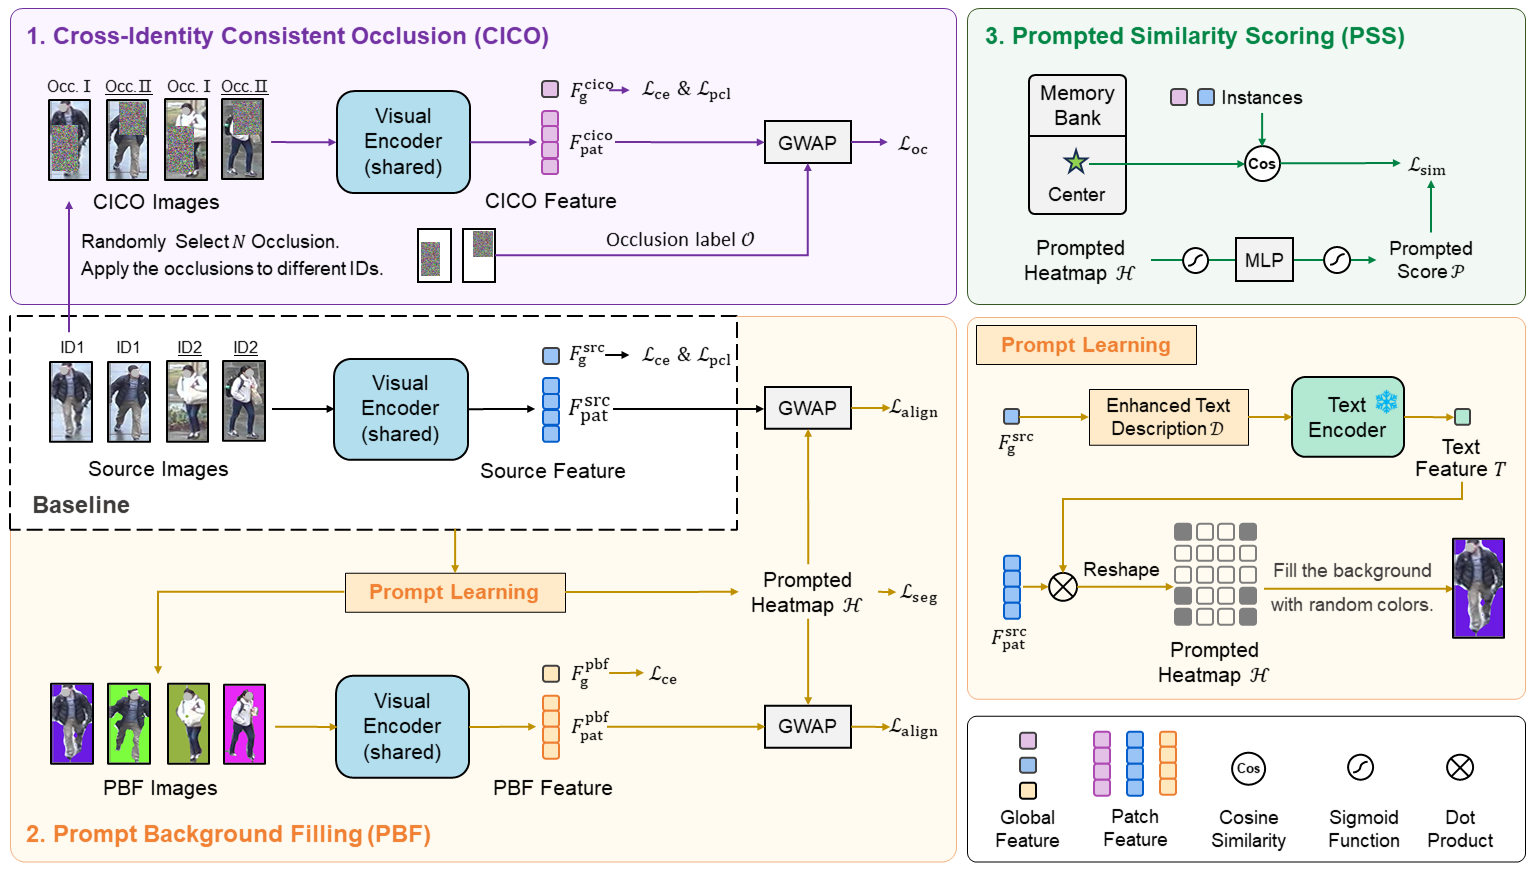
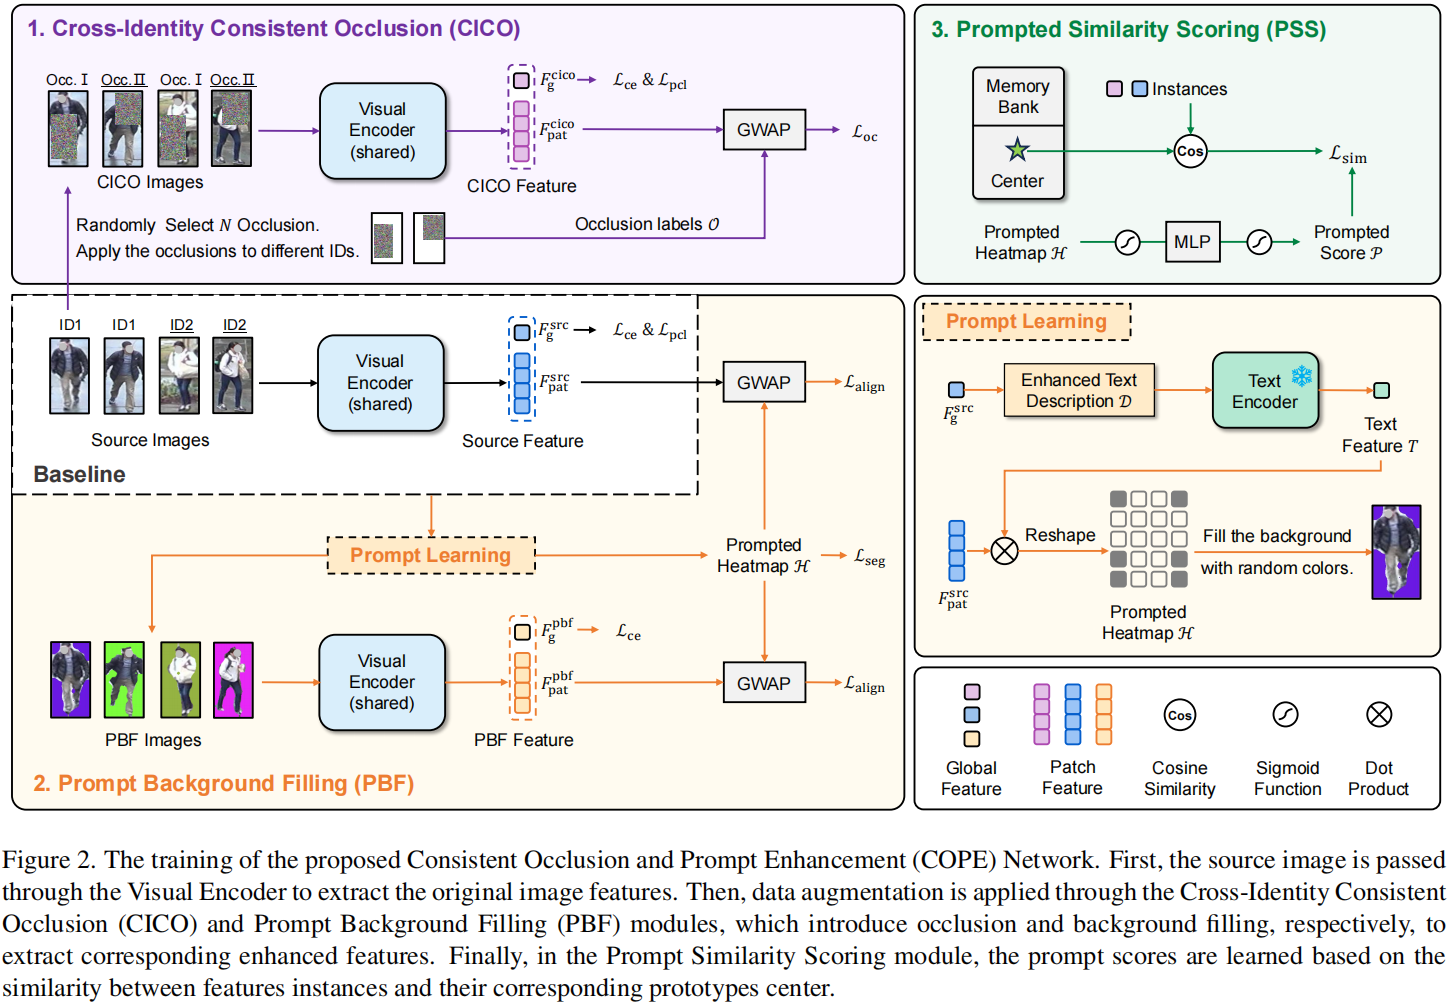
update readme.md file

diff --git a/cope/processor_train.py b/cope/processor_train.py
@@ -13,6 +13,7 @@ import time
 
 from utils.random_erasing import RandomErasing
 
+
 def sample_patch_prob(part_score, kernel_size=16, stride=(16, 16), threshold=0.5):
     """
     Args:
@@ -95,57 +96,57 @@ def train(cfg,
     scaler = amp.GradScaler()
     data_aug = CICO_PBF(M=cfg.SOLVER.OCCLUSION_NUM, image_shape = (cfg.INPUT.SIZE_TRAIN[0], cfg.INPUT.SIZE_TRAIN[1], 3), device=device).to(device)
 
-    # ################################# 1. Pre-Train the model
-    # if cfg.SOLVER.STAGE1.PRETRAINED_PATH == '':
-    #     logger.info("Pre-training stage is begin.")
-    #     for epoch in range(1, epochs_pre+1):
-    #         loss_meter.reset()
-    #         pre_scheduler.step(epoch)
-    #         # train one iteration
-    #         model.train()
-    #         model.text_encoder.eval()
+    ################################# 1. Pre-Train the model
+    if cfg.SOLVER.STAGE1.PRETRAINED_PATH == '':
+        logger.info("Pre-training stage is begin.")
+        for epoch in range(1, epochs_pre+1):
+            loss_meter.reset()
+            pre_scheduler.step(epoch)
+            # train one iteration
+            model.train()
+            model.text_encoder.eval()
 
-    #         for n_iter, (img, vid, target_cam, target_view, mask) in enumerate(train_loader):
-    #             pre_optimizer.zero_grad()
-    #             img = img.to(device)
-    #             mask = mask.to(device)
-    #             target = vid.to(device)
-    #             target_cam = target_cam.to(device)
+            for n_iter, (img, vid, target_cam, target_view, mask) in enumerate(train_loader):
+                pre_optimizer.zero_grad()
+                img = img.to(device)
+                mask = mask.to(device)
+                target = vid.to(device)
+                target_cam = target_cam.to(device)
                 
-    #             if cfg.MODEL.SIE_CAMERA:
-    #                 target_cam = target_cam.to(device)
-    #             else: 
-    #                 target_cam = None
-    #             if cfg.MODEL.SIE_VIEW:
-    #                 target_view = target_view.to(device)
-    #             else: 
-    #                 target_view = None
+                if cfg.MODEL.SIE_CAMERA:
+                    target_cam = target_cam.to(device)
+                else: 
+                    target_cam = None
+                if cfg.MODEL.SIE_VIEW:
+                    target_view = target_view.to(device)
+                else: 
+                    target_view = None
                 
-    #             with amp.autocast(enabled=True):
-    #                 feat_src, logit_src, matrix, _, _ = model(img, cam_label=target_cam, view_label=target_view, get_matrix=True)
-    #                 loss_seg = segmentation_loss(matrix, mask)
-    #                 loss = loss_seg
+                with amp.autocast(enabled=True):
+                    feat_src, logit_src, matrix, _, _ = model(img, cam_label=target_cam, view_label=target_view, get_matrix=True)
+                    loss_seg = segmentation_loss(matrix, mask)
+                    loss = loss_seg
 
-    #             scaler.scale(loss).backward()
-    #             scaler.step(pre_optimizer)
-    #             scaler.update()
+                scaler.scale(loss).backward()
+                scaler.step(pre_optimizer)
+                scaler.update()
 
-    #             loss_meter.update(loss.item(), img.shape[0])
+                loss_meter.update(loss.item(), img.shape[0])
 
-    #             torch.cuda.synchronize()
-    #             if (n_iter + 1) % log_period == 0:
-    #                 logger.info("Epoch[{}] Iteration[{}/{}] Loss: {:.3f}, Base Lr: {:.2e}"
-    #                             .format(epoch, (n_iter + 1), len(train_loader),
-    #                                     loss_meter.avg, pre_scheduler._get_lr(epoch)[0]))
+                torch.cuda.synchronize()
+                if (n_iter + 1) % log_period == 0:
+                    logger.info("Epoch[{}] Iteration[{}/{}] Loss: {:.3f}, Base Lr: {:.2e}"
+                                .format(epoch, (n_iter + 1), len(train_loader),
+                                        loss_meter.avg, pre_scheduler._get_lr(epoch)[0]))
 
-    #         logger.info("Epoch {} done.".format(epoch))
-    #     if epoch % pre_checkpoint_period == 0:
-    #         torch.save(model.state_dict(), os.path.join(cfg.OUTPUT_DIR, cfg.MODEL.NAME + 'pre_{}.pth'.format(epoch)))
-    #     torch.save(model.state_dict(), os.path.join(cfg.OUTPUT_DIR, cfg.MODEL.NAME + 'pre_{}.pth'.format(epoch)))
-    #     logger.info("Pre-training stage is done.")
-    # else:
-    #     model.load_param(cfg.SOLVER.STAGE1.PRETRAINED_PATH)
-    #     logger.info("Pre-trained model loaded from {}".format(cfg.SOLVER.STAGE1.PRETRAINED_PATH))
+            logger.info("Epoch {} done.".format(epoch))
+        if epoch % pre_checkpoint_period == 0:
+            torch.save(model.state_dict(), os.path.join(cfg.OUTPUT_DIR, cfg.MODEL.NAME + 'pre_{}.pth'.format(epoch)))
+        torch.save(model.state_dict(), os.path.join(cfg.OUTPUT_DIR, cfg.MODEL.NAME + 'pre_{}.pth'.format(epoch)))
+        logger.info("Pre-training stage is done.")
+    else:
+        model.load_param(cfg.SOLVER.STAGE1.PRETRAINED_PATH)
+        logger.info("Pre-trained model loaded from {}".format(cfg.SOLVER.STAGE1.PRETRAINED_PATH))
 
 
     scaler = amp.GradScaler()

diff --git a/README.md b/README.md
@@ -2,7 +2,7 @@
 # 🔍COPE: Consistent Occlusion and Prompt Enhancement Network for Occluded Person Re-identification
 
 ## Introduction
-Welcome to the official repository for **COPE** (Consistent Occlusion and Prompt Enhancement Network) — a state-of-the-art model for **Occluded Person Re-identification**!
+Welcome to the official repository for our CVPR 2026 paper "_COPE: Consistent Occlusion and Prompt Enhancement Network for Occluded Person Re-Identification_" — a state-of-the-art model for **Occluded Person Re-identification**!
 Our method achieves 🚀 **SOTA performance** on multiple occluded and holistic person Re-ID benchmarks. 
 
 Key Highlights:
